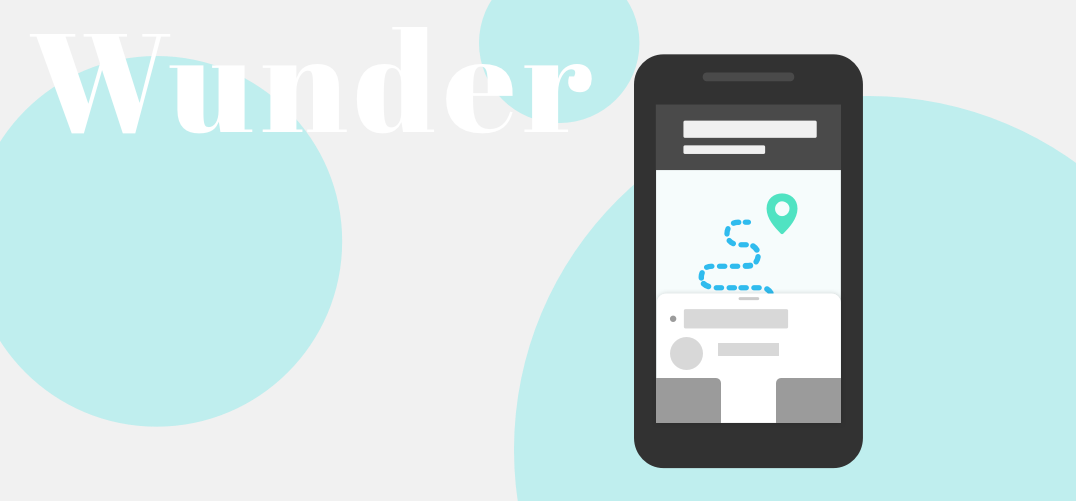
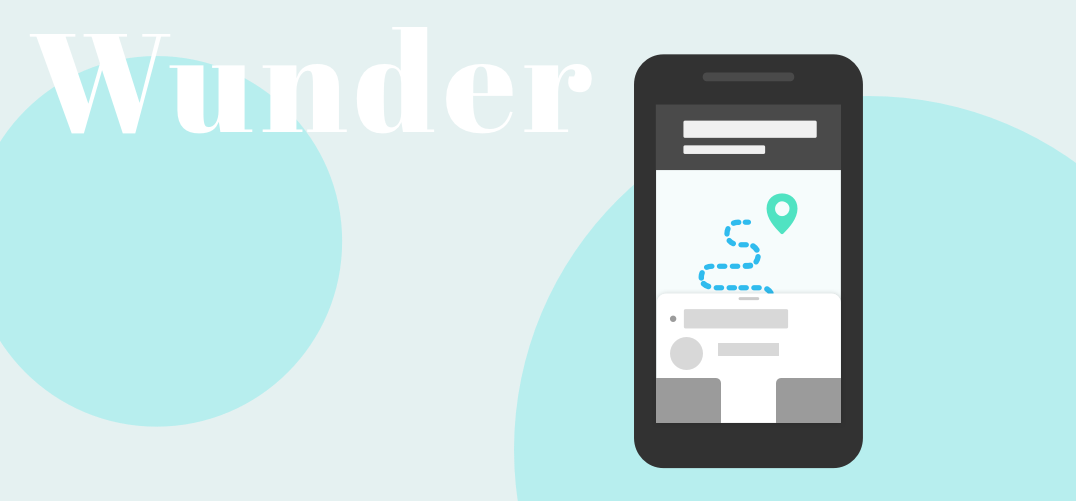
upload

Changed region(s): [[0.4294, 0.0, 0.6134, 0.2395]]

diff --git a/index.html b/index.html
@@ -79,7 +79,7 @@
 			<div class="project-block">
 				<a href="eatjoy.html">
 					<div id="scene_eatjoy" class="scene" data-hover-only="true" data-relative-input="true">
-						<div data-depth="0.00"><img src="img/cover/background.png"></div>
+						<div data-depth="0.00"><img src="img/cover/eatjoy_mask.png"></div>
 						<div data-depth="0.10" class="circle_img"><img src="img/cover/eatjoy_circles.png"></div>
 						<div data-depth="0.00"><img src="img/cover/eatjoy_text.png"></div>
 						<div data-depth="0.30"><img src="img/cover/eatjoy_graph.png"></div>
@@ -92,7 +92,7 @@
 			<div class="project-block">
 				<a href="return.html">
 					<div id="scene_return" class="scene" data-hover-only="true" data-relative-input="true">
-						<div data-depth="0.00"><img src="img/cover/background.png"></div>
+						<div data-depth="0.00"><img src="img/cover/return_mask.png"></div>
 						<div data-depth="0.10" class="circle_img"><img src="img/cover/return_circles.png"></div>
 						<div data-depth="0.00"><img src="img/cover/return_text.png"></div>
 						<div data-depth="0.30"><img src="img/cover/return_graph.png"></div>
@@ -106,7 +106,7 @@
 			<div class="project-block">
 				<a href="https://puhe-wunder-design-challenge.webflow.io/">
 					<div id="scene_wunder" class="scene" data-hover-only="true" data-relative-input="true">
-						<div data-depth="0.00"><img src="img/cover/background.png"></div>
+						<div data-depth="0.00"><img src="img/cover/wunder_mask.png"></div>
 						<div data-depth="0.10" class="circle_img"><img src="img/cover/wunder_circles.png"></div>
 						<div data-depth="0.00"><img src="img/cover/wunder_text.png"></div>
 						<div data-depth="0.30"><img src="img/cover/wunder_graph.png"></div>
@@ -119,7 +119,7 @@
 			<div class="project-block">
 				<a href="chattie.html">
 					<div id="scene_chattie" class="scene" data-hover-only="true" data-relative-input="true">
-						<div data-depth="0.00"><img src="img/cover/background.png"></div>
+						<div data-depth="0.00"><img src="img/cover/chattie_mask.png"></div>
 						<div data-depth="0.10" class="circle_img"><img src="img/cover/chattie_circles.png"></div>
 						<div data-depth="0.00"><img src="img/cover/chattie_text.png"></div>
 						<div data-depth="0.30"><img src="img/cover/chattie_graph.png"></div>
@@ -130,7 +130,7 @@
 				</a>
 			</div>
 
-			<div class="project-block">
+			<!-- <div class="project-block">
 				<a href="co-express.html">
 					<div id="scene_co-express" class="scene" data-hover-only="true" data-relative-input="true">
 						<div data-depth="0.00"><img src="img/cover/background.png"></div>
@@ -141,7 +141,7 @@
 					<div class="project-title">Co-Express Delivery Picking</div>
 					<div class="project-subtitle">Design a Situated Collaborative Tool in Community</div>
 				</a>
-			</div>
+			</div> -->
 
 
 			<!-- <div class="project-block">
@@ -259,8 +259,8 @@
 <script>
 	// Make dynamic cover img
 	if ($(window).width() >= 992) {
-		var scene = document.getElementById('scene_co-express');
-		var parallax = new Parallax(scene);
+		// var scene = document.getElementById('scene_co-express');
+		// var parallax = new Parallax(scene);
 
 		scene = document.getElementById('scene_chattie');
 		parallax = new Parallax(scene);
@@ -281,10 +281,10 @@
 			myNode.removeChild(myNode.firstChild);
 		}
 
-		var myNode_co = document.getElementById("scene_co-express");
-		while (myNode_co.firstChild) {
-			myNode_co.removeChild(myNode_co.firstChild);
-		}
+		// var myNode_co = document.getElementById("scene_co-express");
+		// while (myNode_co.firstChild) {
+		// 	myNode_co.removeChild(myNode_co.firstChild);
+		// }
 
 		var myNode_eatjoy = document.getElementById("scene_eatjoy");
 		while (myNode_eatjoy.firstChild) {
@@ -310,9 +310,9 @@
 		myNode.appendChild(i_chattie);
 
 
-		var i_co = document.createElement("img");
-		i_co.setAttribute('src', 'img/cover/co-express.png');
-		myNode_co.appendChild(i_co);
+		// var i_co = document.createElement("img");
+		// i_co.setAttribute('src', 'img/cover/co-express.png');
+		// myNode_co.appendChild(i_co);
 
 
 		var i_wunder = document.createElement("img");

diff --git a/css/home.css b/css/home.css
@@ -222,7 +222,7 @@ h2 {
 
 .project-block {
   display: block;
-  margin: 70px auto 80px auto;
+  margin: 70px auto 160px auto;
   width: 70vw;
 }
 
